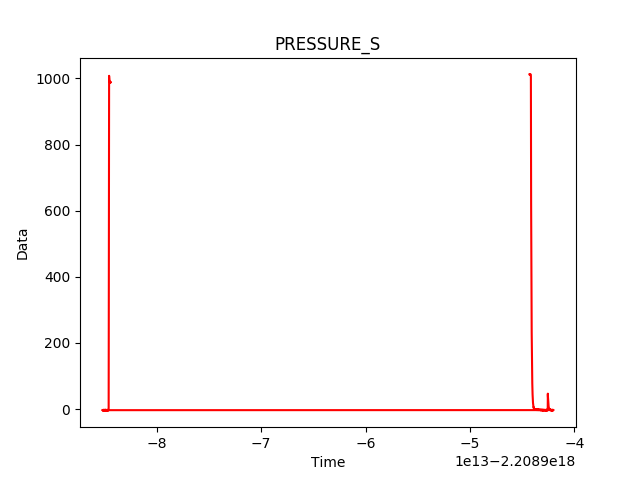
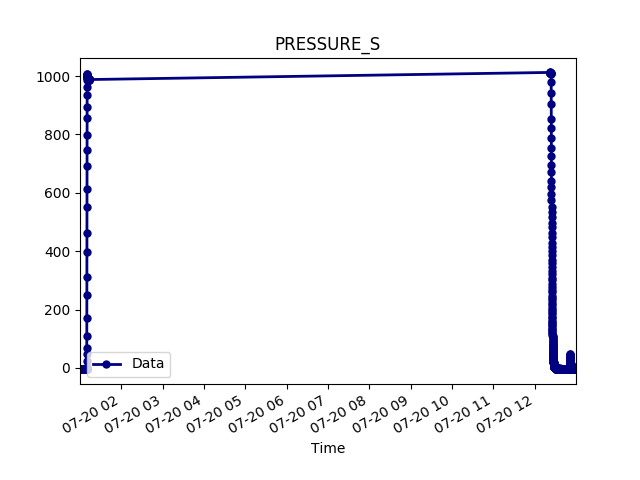
fixed timestamp bug

Changed region(s): [[0.0312, 0.125, 0.9375, 0.9688]]

diff --git a/analysis/plotter.py b/analysis/plotter.py
@@ -25,18 +25,6 @@ if __name__ == "__main__":
 
 	for file in filenames:
 		with open(file +'.csv', 'r', encoding='utf-8') as inFile:
-			df = pd.read_csv(inFile, parse_dates=True, usecols=['Time','Data'])
-			time = pd.to_datetime(df['Time'],format='%H:%M:%S')
-			# times = plt.dates.date2num(time)
-			data = df['Data'].values.tolist()
-			
-		for e in time:
-			print(type(e),"\t", e)
-		plt.plot_date(time,data,'r')
-		# plt.xlabel('Time')
-		# plt.ylabel('Data')
-		# plt.title(file)
-		# plt.savefig(file +'.png')
-		plt.show()
-	
+			df = pd.read_csv(inFile, parse_dates = True, index_col = 0)
+		df.plot(lw=2, colormap='jet', marker='.', markersize=10, title=file).get_figure().savefig(file + '.png')
 
